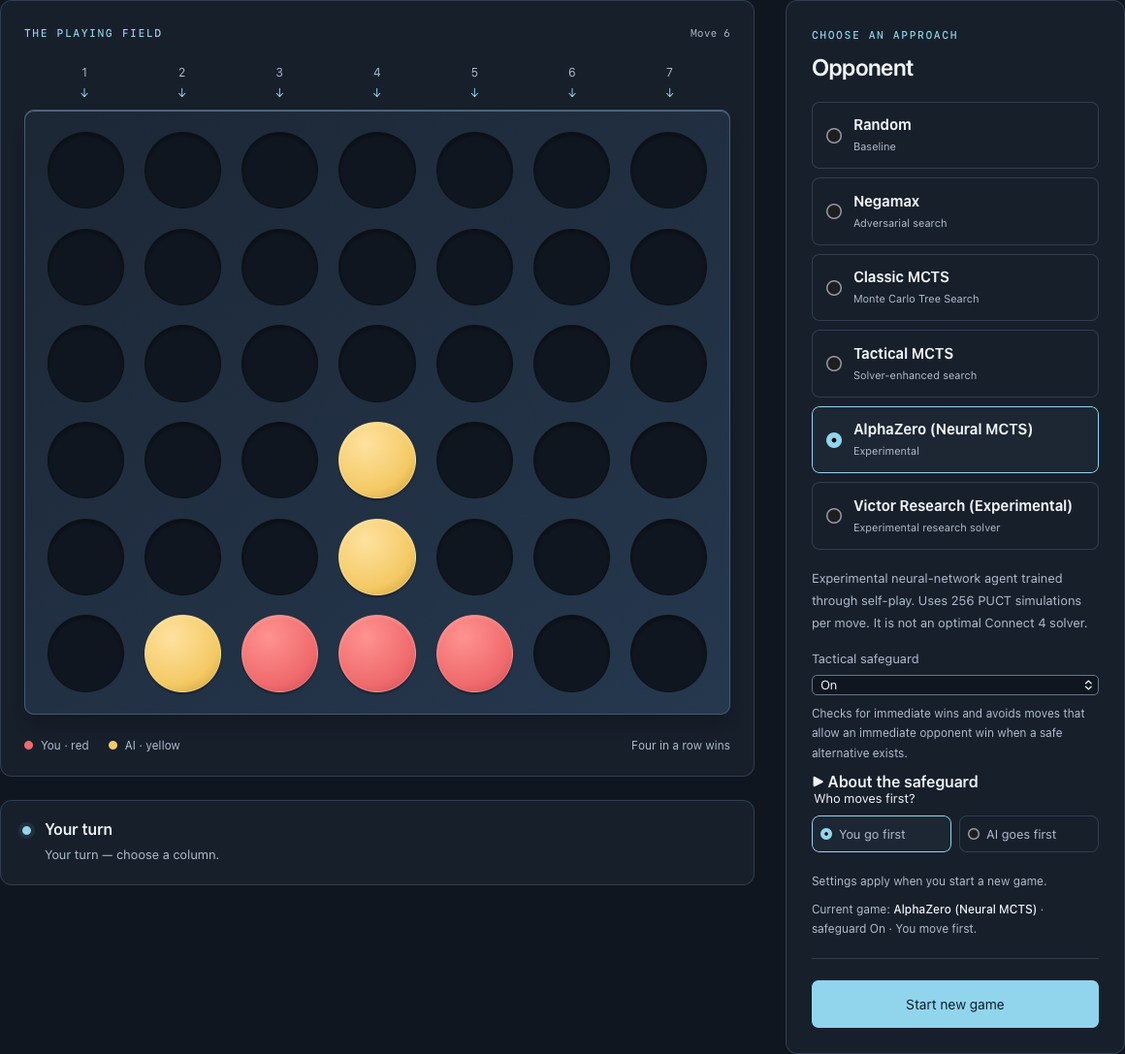
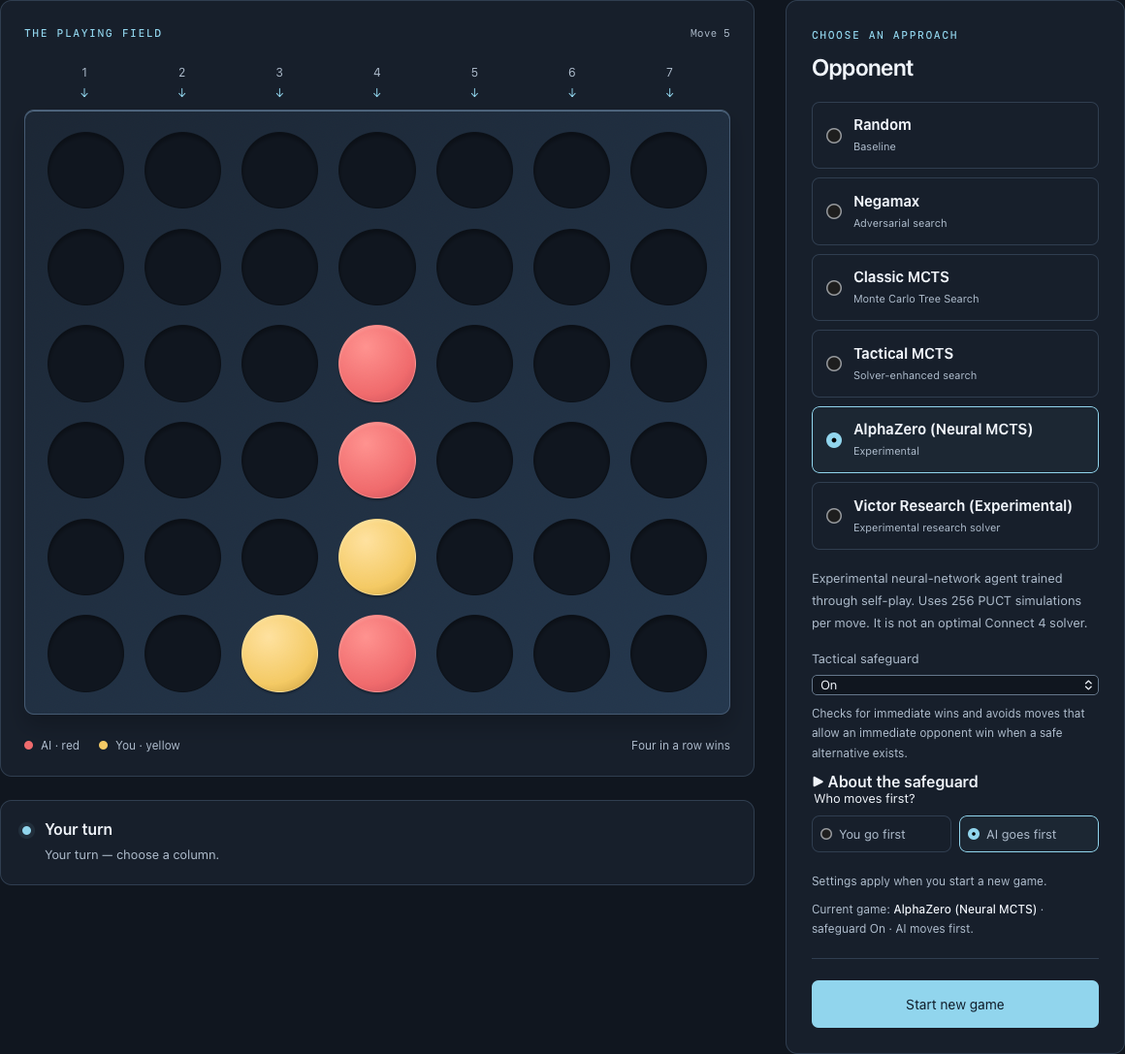
Address independent review findings
- Keep untouched default fields on the last settled AlphaZero
  availability during a recheck; menus and creation still fail closed,
  and pending AlphaZero slots are labelled as checking availability.
- Gate the homepage hero's neural-agent mention on discovery and say the
  +1.30 pp safeguard effect is pooled across two trained networks.
- Install mock backends before page load in two screenshot specs and
  scope the Season workload locator now that Victor can join defaults.
- Recapture the Play screenshot from a neutral position; tighten README
  study attribution, image-publishing and Compose wording.

diff --git a/ui/src/pages/SeasonLab.jsx b/ui/src/pages/SeasonLab.jsx
@@ -1,4 +1,4 @@
-import { hasAlphaZero, ALPHAZERO_CAVEAT } from '../connect4/alphazero.js';
+import { ALPHAZERO, hasAlphaZero, ALPHAZERO_CAVEAT } from '../connect4/alphazero.js';
 import { useAlphaZero } from '../connect4/useAlphaZero.js';
 import { researchAgentEnabled, researchAgent, VICTOR_RESEARCH, hasResearch, RESEARCH_DISABLED, RESEARCH_CAVEAT } from '../connect4/researchAgent.js';
 import { useMemo, useState } from 'react';
@@ -28,8 +28,9 @@ export default function SeasonLabPage({ http = seasonHttp, storage }) {
   const presets = entrantPresets(available);
   const state = useSeason(http, storage), { season: s, controller: c } = state;
   const [size, setSize] = useState(8), [games, setGames] = useState(2), [customField, setField] = useState(null), [seed, setSeed] = useState(() => String(randomSeed()));
-  // Until edited, the field follows availability, so late AlphaZero discovery joins it without replacing choices.
-  const field = customField ?? recommendedField(size, available);
+  // Until edited, the field follows settled availability: late AlphaZero discovery joins it without
+  // replacing choices, and a recheck does not reshuffle it. Menus and creation still fail closed.
+  const field = customField ?? recommendedField(size, { ...available, alphaZero: alphaZero.settled });
   const [setup, setSetup] = useState(false), [selected, setSelected] = useState(null), [setupError, setSetupError] = useState(''), [epoch, setEpoch] = useState(0);
   const analytics = useMemo(() => s ? seasonAnalytics(s) : null, [s?.completedGames, s?.entrants, s?.seasonSeed]);
   const shown = s && (s.schedule.find(f => f.fixtureId === selected) ?? currentFixture(s) ?? s.schedule.at(-1));
@@ -65,7 +66,7 @@ export default function SeasonLabPage({ http = seasonHttp, storage }) {
       <p id="season-seed-help" className="analysis-helper">Whole number 0–4294967295. The same field, slot order, seed and season length reproduce the schedule, colors and game seeds.</p>
       <p className="season-workload" role="status">{size * (size - 1) / 2} pairings × {games} = <strong>{totalGames(size, games)} scheduled games,</strong> played one at a time on the shared game server. Runtime depends on the entrants as well as the game count: Random and shallow Negamax reply almost instantly, while deeper Negamax, larger MCTS budgets and Victor Research spend more time per move. The default field avoids the slowest settings; a full season can still take several minutes or longer.</p>
       <div className="field-heading"><h3>Entrants</h3><button type="button" onClick={() => setField(null)}>Reset default field</button></div>
-      <div className="entrant-field">{field.map((config, i) => <div className="entrant-row" key={i}><label htmlFor={`season-entrant-${i + 1}`}>#{i + 1}</label><select id={`season-entrant-${i + 1}`} aria-label={`Entrant ${i + 1} configuration`} value={presets.findIndex(p => JSON.stringify(p) === JSON.stringify(config))} onChange={e => setField(field.map((p, j) => j === i ? { ...presets[Number(e.target.value)] } : p))}>{presets.findIndex(p => JSON.stringify(p) === JSON.stringify(config)) === -1 && <option value={-1} disabled>{config.type === VICTOR_RESEARCH ? `${researchAgent.name} · unavailable` : `${competitorLabel(config)} · saved setting`}</option>}{presets.map((p, j) => <option value={j} key={j}>{competitorLabel(p)}</option>)}</select></div>)}</div>
+      <div className="entrant-field">{field.map((config, i) => <div className="entrant-row" key={i}><label htmlFor={`season-entrant-${i + 1}`}>#{i + 1}</label><select id={`season-entrant-${i + 1}`} aria-label={`Entrant ${i + 1} configuration`} value={presets.findIndex(p => JSON.stringify(p) === JSON.stringify(config))} onChange={e => setField(field.map((p, j) => j === i ? { ...presets[Number(e.target.value)] } : p))}>{presets.findIndex(p => JSON.stringify(p) === JSON.stringify(config)) === -1 && <option value={-1} disabled>{config.type === VICTOR_RESEARCH ? `${researchAgent.name} · unavailable` : config.type === ALPHAZERO && alphaZero.checking ? `${competitorLabel(config)} · checking availability` : `${competitorLabel(config)} · saved setting`}</option>}{presets.map((p, j) => <option value={j} key={j}>{competitorLabel(p)}</option>)}</select></div>)}</div>
       <div className="setup-submit"><button id="season-create" className="action-link action-link--primary" disabled={state.busy}>Create season</button>{s && <button type="button" onClick={() => setSetup(false)}>Cancel new season</button>}</div>
     </form> : <>
       <section className="tournament-summary" aria-label="Season summary"><div><span className="eyebrow">Exact Red / Yellow balance</span><h2>{s.fieldSize} entrants <span>·</span> {s.gamesPerPairing} games per pairing</h2><p>Seed {s.seasonSeed} · {s.currentGameIndex} of {s.schedule.length} games complete · {s.schedule.at(-1).round} rounds</p></div><button disabled={state.busy} onClick={() => { c.pause(); setSize(s.fieldSize); setGames(s.gamesPerPairing); setField(s.entrants.map(e => ({ ...e.config }))); setSeed(String(randomSeed())); setSetup(true); }}>New season</button></section>

diff --git a/ui/e2e/season.spec.js b/ui/e2e/season.spec.js
@@ -7,8 +7,8 @@ test('homepage/navigation, representative 8-player setup, strict seed, workload,
   const mock = await mockSeason(page); await page.goto('/'); await page.getByRole('link', { name: 'Open Season Lab' }).click();
   await expect(page.getByRole('heading', { level: 1 })).toHaveText('Season Lab'); await expect(page.locator('.entrant-row')).toHaveCount(8); await expect(page.locator('#season-entrant-1 option')).toHaveCount(16 + Number((process.env.VICTOR_LABS_UI ?? process.env.VICTOR_RELEASE_UI) === 'true'));
   await expect(page.locator('#season-entrant-1')).not.toContainText('Human');
-  for (const [games, count] of [[2, 56], [4, 112], [8, 224]]) { await page.locator('#season-games').selectOption(String(games)); await expect(page.locator('.season-workload')).toContainText(`${count} scheduled games`); }
-  await page.locator('#season-size').selectOption('12'); await expect(page.locator('.season-workload')).toContainText('528 scheduled games');
+  for (const [games, count] of [[2, 56], [4, 112], [8, 224]]) { await page.locator('#season-games').selectOption(String(games)); await expect(page.locator('.season-workload[role="status"]')).toContainText(`${count} scheduled games`); }
+  await page.locator('#season-size').selectOption('12'); await expect(page.locator('.season-workload[role="status"]')).toContainText('528 scheduled games');
   for (const size of [4, 6, 8, 10, 12]) { await page.locator('#season-size').selectOption(String(size)); await expect(page.locator('.entrant-row')).toHaveCount(size); }
   await page.locator('#season-seed').fill('4294967296'); await page.locator('#season-create').click(); await expect(page.getByRole('alert')).toContainText('whole number');
   await page.locator('#season-size').selectOption('8'); await page.locator('#season-games').selectOption('4'); await page.locator('#season-seed').fill('1234'); await page.locator('#season-create').click();
@@ -62,8 +62,10 @@ test('route departure while a move is in flight keeps one mutation owner on retu
 test('polished seeded season screenshots', async ({ page }) => {
   const folder = resolve('playwright-report/phase5d'); await mkdir(folder, { recursive: true });
   const capture = async (name, locator) => { await page.evaluate(() => { document.activeElement?.blur(); window.scrollTo(0, 0); }); await (locator ?? page).screenshot({ path: `${folder}/${name}.png`, fullPage: locator ? undefined : true, style: '.skip-link { visibility: hidden; }' }); };
+  // Mock first: discovery runs on load, and an untouched default field follows it.
+  const mock = await mockSeason(page);
   await page.setViewportSize({ width: 1440, height: 1040 }); await page.goto('/connect4/season'); await page.locator('#season-games').selectOption('4'); await page.locator('#season-seed').fill('1234'); await capture('01-setup-8x4');
-  const mock = await mockSeason(page); await page.locator('#season-create').click(); await page.locator('#season-watch').click(); await expect(page.locator('#match-next')).toBeEnabled();
+  await page.locator('#season-create').click(); await page.locator('#season-watch').click(); await expect(page.locator('#match-next')).toBeEnabled();
   for (let i = 1; i <= 6; i++) { await page.locator('#match-next').click(); await expect(page.locator('.board-revision')).toHaveText(`Move ${i}`); await expect(page.locator('#match-next')).toBeEnabled(); }
   await capture('02-active-schedule', page.locator('.season-schedule')); await capture('03-live-viewer', page.locator('.season-viewer'));
   await seedSeason(page, seasonFixture(8, 4, 48)); await page.reload(); await capture('04-standings', page.locator('.season-standings'));

diff --git a/ui/src/pages/TournamentLab.jsx b/ui/src/pages/TournamentLab.jsx
@@ -1,4 +1,4 @@
-import { hasAlphaZero, ALPHAZERO_CAVEAT } from '../connect4/alphazero.js';
+import { ALPHAZERO, hasAlphaZero, ALPHAZERO_CAVEAT } from '../connect4/alphazero.js';
 import { useAlphaZero } from '../connect4/useAlphaZero.js';
 import { researchAgentEnabled, researchAgent, VICTOR_RESEARCH, hasResearch, RESEARCH_DISABLED, RESEARCH_CAVEAT } from '../connect4/researchAgent.js';
 import { useState } from 'react';
@@ -23,8 +23,9 @@ export default function TournamentLabPage({ http = tournamentHttp, storage }) {
   const presets = entrantPresets({ ...available, human: true });
   const state = useTournament(http, storage), { tournament: t, controller: c } = state;
   const [size, setSize] = useState(8), [customField, setField] = useState(null), [seed, setSeed] = useState(() => String(randomSeed()));
-  // Until edited, the field follows availability, so late AlphaZero discovery joins it without replacing choices.
-  const field = customField ?? recommendedField(size, available);
+  // Until edited, the field follows settled availability: late AlphaZero discovery joins it without
+  // replacing choices, and a recheck does not reshuffle it. Menus and creation still fail closed.
+  const field = customField ?? recommendedField(size, { ...available, alphaZero: alphaZero.settled });
   const [setup, setSetup] = useState(false), [selected, setSelected] = useState(null), [setupError, setSetupError] = useState(''), [playbackEpoch, setPlaybackEpoch] = useState(0);
   const parsedSeed = /^\d+$/.test(seed) ? Number(seed) : NaN;
   const shown = t && (findMatchup(t, selected) ?? findMatchup(t, t.active?.matchupId) ?? nextMatchup(t) ?? t.rounds.at(-1)[0]);
@@ -66,7 +67,7 @@ export default function TournamentLabPage({ http = tournamentHttp, storage }) {
       <div className="entrant-field">{field.map((config, i) => <div className="entrant-row" key={i}><label htmlFor={`entrant-${i + 1}`}>#{i + 1}</label>
         <select id={`entrant-${i + 1}`} aria-label={`Entrant ${i + 1} configuration`} value={presets.findIndex(p => JSON.stringify(p) === JSON.stringify(config))}
           onChange={e => setField(field.map((p, j) => j === i ? { ...presets[Number(e.target.value)] } : p))}>
-          {presets.findIndex(p => JSON.stringify(p) === JSON.stringify(config)) === -1 && <option value={-1} disabled>{config.type === VICTOR_RESEARCH ? `${researchAgent.name} · unavailable` : `${competitorLabel(config)} · saved setting`}</option>}{presets.map((p, j) => <option key={j} value={j} disabled={p.type === 'human' && config.type !== 'human' && field.some(c => c.type === 'human')}>{p.type === 'human' ? 'You · Human' : competitorLabel(p)}</option>)}
+          {presets.findIndex(p => JSON.stringify(p) === JSON.stringify(config)) === -1 && <option value={-1} disabled>{config.type === VICTOR_RESEARCH ? `${researchAgent.name} · unavailable` : config.type === ALPHAZERO && alphaZero.checking ? `${competitorLabel(config)} · checking availability` : `${competitorLabel(config)} · saved setting`}</option>}{presets.map((p, j) => <option key={j} value={j} disabled={p.type === 'human' && config.type !== 'human' && field.some(c => c.type === 'human')}>{p.type === 'human' ? 'You · Human' : competitorLabel(p)}</option>)}
         </select></div>)}</div>
       <div className="setup-submit"><button id="tournament-create" className="action-link action-link--primary" disabled={state.busy}>Create tournament</button>{t && <button type="button" onClick={() => setSetup(false)}>Cancel new tournament</button>}</div>
     </form> : <>

diff --git a/ui/tests/portfolioPolish.test.js b/ui/tests/portfolioPolish.test.js
@@ -137,7 +137,7 @@ test('I/J/K: every Tournament default is valid, selectable, Human-free, ordered 
     const ranks = field.map(c => AI_AGENT_ORDER.indexOf(c.type));
     assert.deepEqual(ranks, [...ranks].sort((a, b) => a - b));
     // Large brackets repeat configurations evenly rather than piling onto one.
-    const counts = Object.values(Object.groupBy(field, c => JSON.stringify(c))).map(group => group.length);
+    const counts = [...field.reduce((m, c) => m.set(JSON.stringify(c), (m.get(JSON.stringify(c)) ?? 0) + 1), new Map()).values()];
     assert.ok(Math.max(...counts) - Math.min(...counts) <= Math.ceil(size / 9));
     assert.ok(tournament.createTournament(field, 1234, 'defaults', victor, alphaZero ? provenance : undefined));
   }
@@ -290,4 +290,35 @@ test('V/W: homepage shows AlphaZero before Victor and only calls it playable whe
   const checking = render(React.createElement(Home, { http: client('deferred').http }));
   assert.equal([...checking.doc.querySelectorAll('#agents .badge')].at(-1).textContent, 'Checking availability…');
   checking.cleanup();
+});
+
+test('M: an availability recheck keeps an untouched field stable; a confirmed loss removes AlphaZero', async () => {
+  const responses = [];
+  const http = { get: () => new Promise((resolve, reject) => responses.push({ resolve, reject })), post: async () => { throw new Error('No game may start.'); } };
+  const ui = render(React.createElement(TournamentLabPage, { http, storage: memoryStorage() }), 'http://localhost/connect4/tournament');
+  responses.shift().resolve({ data: status }); await flush();
+  const withAlphaZero = recommendedField(8, { alphaZero: true }).map(competitorLabel);
+  assert.deepEqual(fieldLabels(ui, 'entrant', 8), withAlphaZero);
+  const refresh = () => ui.click([...ui.doc.querySelectorAll('button')].find(b => b.textContent === 'Refresh agent availability'));
+
+  refresh(); await flush();
+  // Checking: menus fail closed, but the untouched field neither reshuffles nor drops AlphaZero.
+  assert.equal(ui.options('entrant-2').some(o => o.text === 'AlphaZero (Experimental) · safeguard Off'), false);
+  assert.deepEqual(fieldLabels(ui, 'entrant', 8), withAlphaZero.map(l => l.startsWith('AlphaZero') ? `${l} · checking availability` : l));
+  responses.shift().resolve({ data: status }); await flush();
+  assert.deepEqual(fieldLabels(ui, 'entrant', 8), withAlphaZero);
+
+  refresh(); await flush();
+  responses.shift().reject(Object.assign(new Error('absent'), { response: { status: 404 } })); await flush();
+  assert.deepEqual(fieldLabels(ui, 'entrant', 8), recommendedField(8).map(competitorLabel));
+  ui.cleanup();
+});
+
+test('V/W: the hero names the neural agent only when the backend reports it available', async () => {
+  for (const [discovery, neural] of [['available', true], ['absent', false]]) {
+    const ui = render(React.createElement(Home, { http: client(discovery).http }));
+    await flush();
+    assert.equal(ui.doc.querySelector('.hero-description').textContent.includes('neural network'), neural);
+    ui.cleanup();
+  }
 });

diff --git a/ui/src/connect4/alphazero.js b/ui/src/connect4/alphazero.js
@@ -46,20 +46,21 @@ export function requireSameAlphaZero(expected, actual) {
 
 // Shared discovery per HTTP client. No polling; mount, focus (60s cache), explicit
 // refresh, and AlphaZero starts. A newer refresh supersedes older responses.
+// `settled` keeps the last confirmed availability through a recheck, for display only.
 const discoveries = new WeakMap();
 export function alphaZeroDiscovery(http) {
   if (discoveries.has(http)) return discoveries.get(http);
-  let state = { available: false, provenance: null, reason: 'Checking AlphaZero availability…', checkedAt: 0 }, sequence = 0, pending = null;
+  let state = { available: false, checking: true, settled: false, provenance: null, reason: 'Checking AlphaZero availability…', checkedAt: 0 }, sequence = 0, pending = null;
   const listeners = new Set();
   const publish = next => { state = next; for (const fn of listeners) fn(); };
   const store = { snapshot: () => state, subscribe: fn => { listeners.add(fn); return () => listeners.delete(fn); },
-    invalidate: () => { sequence++; pending = null; publish({ available: false, provenance: null, reason: 'AlphaZero availability must be checked again.', checkedAt: 0 }); },
+    invalidate: () => { sequence++; pending = null; publish({ available: false, checking: false, settled: false, provenance: null, reason: 'AlphaZero availability must be checked again.', checkedAt: 0 }); },
     async refresh(force = false) {
       if (!force && pending) return pending;
       if (!force && Date.now() - state.checkedAt < 60000) return state;
       const id = ++sequence;
       // Fail closed while rechecking, retaining no selectable stale model.
-      publish({ ...state, available: false, reason: 'Checking AlphaZero availability…' });
+      publish({ ...state, available: false, checking: true, reason: 'Checking AlphaZero availability…' });
       const task = (async () => {
         let next;
         try {
@@ -67,7 +68,7 @@ export function alphaZeroDiscovery(http) {
           const provenance = validateAlphaZeroStatus(data);
           next = { available: Boolean(provenance), provenance, reason: provenance ? '' : data.enabled ? 'AlphaZero is unavailable on this backend.' : 'AlphaZero is disabled on this backend.' };
         } catch (error) { next = { available: false, provenance: null, reason: error.response?.status === 404 ? 'AlphaZero is not supported by this backend.' : 'AlphaZero availability could not be confirmed.' }; }
-        if (id === sequence) { publish({ ...next, checkedAt: Date.now() }); pending = null; }
+        if (id === sequence) { publish({ ...next, checking: false, settled: next.available, checkedAt: Date.now() }); pending = null; }
         return state;
       })();
       pending = task; return task;

diff --git a/ui/src/pages/Home.jsx b/ui/src/pages/Home.jsx
@@ -36,7 +36,7 @@ const alphaZeroSteps = [
   ['Self-play', 'The agent plays complete games against itself. Each position is saved with the moves its search preferred and the eventual result.'],
   ['Learning', 'A convolutional network with 325,896 parameters, trained in PyTorch, learns a policy (which columns look promising) and a value (who is likely to win).'],
   ['Search', 'Each move runs 256 PUCT simulations: the network’s predictions steer Monte Carlo Tree Search toward promising lines instead of random rollouts.'],
-  ['Optional safeguard', 'A conventional one-ply check after search takes an immediate win and avoids handing one over. Measured effect: +1.30 points of match score, below the +2‑point threshold declared before the study.'],
+  ['Optional safeguard', 'A conventional one-ply check after search takes an immediate win and avoids handing one over. Measured effect across two trained networks: +1.30 points of match score, below the +2‑point threshold declared before the study.'],
 ];
 
 function ApproachGlyph({ type }) {
@@ -62,7 +62,7 @@ function ApproachGlyph({ type }) {
 
 function alphaZeroBadge(alphaZero) {
   if (alphaZero.available) return <Badge>Playable · Experimental</Badge>;
-  return <Badge variant="research">{alphaZero.reason.startsWith('Checking') ? 'Checking availability…' : 'Not available on this server'}</Badge>;
+  return <Badge variant="research">{alphaZero.checking ? 'Checking availability…' : 'Not available on this server'}</Badge>;
 }
 
 export default function Home({ http = homeHttp }) {
@@ -78,7 +78,7 @@ export default function Home({ http = homeHttp }) {
           <p className="eyebrow"><span className="accent-dash" />Play · compare · understand</p>
           <h1 id="hero-title">Board Game<br /><span>AI Lab</span><span className="title-period">.</span></h1>
           <p className="hero-statement">Explore how game-playing AI chooses moves.</p>
-          <p className="hero-description">Play Connect 4 against classical search, Monte Carlo and self-play neural agents. Compare how they choose moves and inspect grounded analysis of the board.</p>
+          <p className="hero-description">Play Connect 4 against classical search and Monte Carlo agents{alphaZero.available ? ', and a neural network trained through self-play' : ''}. Compare how they choose moves and inspect grounded analysis of the board.</p>
           <div className="action-row"><ActionLink to="/connect4">Play Connect 4</ActionLink><ActionLink to="/#agents" variant="secondary">Explore the agents</ActionLink></div>
           <p className="hero-note"><span className="piece-dot piece-dot--red" /><span className="piece-dot piece-dot--yellow" />Choose whether you or the AI moves first.</p>
         </div>

diff --git a/ui/e2e/tournament.spec.js b/ui/e2e/tournament.spec.js
@@ -89,9 +89,11 @@ test('invalid saved topology rejects whole record and allows new tournament', as
 });
 test('representative polished Tournament Lab screenshots', async ({ page }) => {
   const folder = resolve('playwright-report/phase5b'); await mkdir(folder, { recursive: true });
+  // Mock first: discovery runs on load, and an untouched default field follows it.
+  const s = await mockTournament(page);
   await page.setViewportSize({ width: 1440, height: 1040 }); await page.goto('/connect4/tournament'); await page.locator('#tournament-seed').fill('1234');
   await page.evaluate(() => { document.activeElement?.blur(); window.scrollTo(0, 0); }); await page.screenshot({ style: '.skip-link { visibility: hidden; }', path: `${folder}/01-desktop-setup.png`, fullPage: true });
-  const s = await mockTournament(page); await page.locator('#tournament-create').click(); await start(page);
+  await page.locator('#tournament-create').click(); await start(page);
   for (let i = 1; i <= 6; i++) { await page.locator('#match-next').click(); await expect(page.locator('.board-revision')).toHaveText(`Move ${i}`); await expect(page.locator('#match-next')).toBeEnabled(); }
   await page.evaluate(() => { document.activeElement?.blur(); window.scrollTo(0, 0); }); await page.screenshot({ style: '.skip-link { visibility: hidden; }', path: `${folder}/02-desktop-active-bracket.png`, fullPage: true });
   await page.locator('.tournament-viewer').screenshot({ style: '.skip-link { visibility: hidden; }', path: `${folder}/03-desktop-live-viewer.png` });

diff --git a/README.md b/README.md
@@ -43,7 +43,7 @@ None of the agents plays perfectly. AlphaZero and Victor Research are research a
 - **React game and evaluation workflows.** Play, Match, Tournament and Season Labs share one competitor model. AlphaZero appears only when the backend reports it available; Victor Research sits behind matching frontend and server flags. Competitions survive reloads through validated local persistence.
 - **Reproducible, verifiable evaluation.** Seeds determine brackets, schedules, colors and game seeds. Season exports carry versioned provenance and a SHA-256 evidence digest, and a standalone verifier legally replays every game.
 - **Grounded LLM explanations.** The engine computes tactical facts deterministically. The LLM only selects among verified fact IDs and curated strategy references, and it never chooses moves.
-- **ARM64 deployment and CI.** GitHub Actions runs backend and frontend tests, builds and smoke-tests native ARM64 Docker images, and runs AlphaZero inference checks. Images are published, but deployment is a manual, documented step.
+- **ARM64 deployment and CI.** GitHub Actions runs backend and frontend tests, builds and smoke-tests native ARM64 Docker images, and runs AlphaZero inference checks on a native ARM64 runner. Commit-pinned API images are published to GHCR; deployment remains a manual, documented step.
 
 ## Architecture
 
@@ -64,10 +64,11 @@ The browser owns competition scheduling, replay and analytics; the API owns game
 
 ```sh
 node ui/scripts/verify-evaluation-export.mjs benchmarks/connect4/results/canonical-season-v1/evaluation.json
-# Verification PASS · COMPLETE: 112/112 games
+# Verification PASS
+# COMPLETE: 112/112 games
 ```
 
-**AlphaZero research results.** In controlled studies from varied openings, the public model scored about 54% against Negamax depth 3 and about 36% against Negamax depth 5. It is a working self-play agent, not a strong or perfect player. In a [confirmation study](https://github.com/andrewcukierwar/board-game-ai-lab/blob/phase4d4j-b-tactical-guard-confirmation/docs/phase4d4j-b-alphazero-tactical-guard-confirmation.md), the optional safeguard improved match score by +1.30 percentage points (95% interval +0.52 to +2.34), pooled across the two trained CNNs studied. That is a real but small effect, below the +2-point practical threshold declared in advance.
+**AlphaZero research results.** In a controlled study from varied openings (Phase 4D.4J-B, safeguard Off), the public model scored about 54% against Negamax depth 3 and about 36% against Negamax depth 5. It is a working self-play agent, not a strong or perfect player. In a [confirmation study](https://github.com/andrewcukierwar/board-game-ai-lab/blob/phase4d4j-b-tactical-guard-confirmation/docs/phase4d4j-b-alphazero-tactical-guard-confirmation.md), the optional safeguard improved match score by +1.30 percentage points (95% interval +0.52 to +2.34), pooled across the two trained CNNs studied. That is a real but small effect, below the +2-point practical threshold declared in advance.
 
 **Tactical MCTS research results.** On 256 held-out openings, the solver-enhanced variant scored 74.2% against Classic MCTS at equal simulations and 70.8% at equal search time. This is a head-to-head research comparison, not a measurement of the current public presets.
 
@@ -89,7 +90,7 @@ With Docker running, from the repository root:
 docker compose up --build
 ```
 
-Open http://localhost:3000. Gameplay needs no API keys. AlphaZero is opt-in: it requires the `ALPHAZERO_RUNTIME=true` image build and `ALPHAZERO_ENABLED=true` at runtime ([runtime dependencies](docs/alphazero-runtime-dependencies.md)).
+Open http://localhost:3000. Gameplay needs no API keys. The default Compose setup is torch-free, so AlphaZero is hidden; enabling it needs an API image built with `ALPHAZERO_RUNTIME=true` and `ALPHAZERO_ENABLED=true` at runtime, as described in the [runtime dependencies](docs/alphazero-runtime-dependencies.md).
 
 For development, with Python 3.11 and Node 22.12+:
 
@@ -118,7 +119,7 @@ Run tests with `EXPLANATIONS_ENABLED=false python -m pytest tests -q` and `cd ui
 <details>
 <summary>More screenshots</summary>
 
-![Playing against AlphaZero with the tactical safeguard on](docs/assets/connect4-play.png)
+![Playing against AlphaZero, which moved first, with the tactical safeguard on](docs/assets/connect4-play.png)
 
 ![Match Lab reviewing AlphaZero against Tactical MCTS](docs/assets/match-lab-replay.png)
 

diff --git a/docs/assets/README.md b/docs/assets/README.md
@@ -1,11 +1,11 @@
 # Application screenshots
 
-Real captures of the application UI, with no generated imagery, retouching, or invented visual elements. They were taken on October 14, 2026 from the `polish/portfolio-home-readme-default-fields` frontend (Vite dev server, WebKit, 1440 px viewport). The frontend used an isolated local staging API (`127.0.0.1`, never the public service) with `ALPHAZERO_ENABLED=true`, `VICTOR_RESEARCH_ENABLED=true` and explanations disabled. AlphaZero availability and every AI move shown came from that real backend; no response was mocked.
+Real captures of the application UI, with no generated imagery, retouching, or invented visual elements. They were taken on October 14, 2026 from this release's frontend (Vite dev server, WebKit, 1440 px viewport). The frontend used an isolated local staging API (`127.0.0.1`, never the public service) with `ALPHAZERO_ENABLED=true`, `VICTOR_RESEARCH_ENABLED=true` and explanations disabled. AlphaZero availability and every AI move shown came from that real backend; no response was mocked.
 
 | Image | Context |
 | --- | --- |
 | [home.png](home.png) | Homepage first viewport. |
-| [connect4-play.png](connect4-play.png) | Play against AlphaZero with the tactical safeguard On; the human moved first in columns 4, 3 and 5, and AlphaZero replied. Before requesting analysis. |
+| [connect4-play.png](connect4-play.png) | Play against AlphaZero (Red, moving first) with the tactical safeguard On; the human replied in columns 4 and 3. Neither side has an immediate win. Before requesting analysis. |
 | [match-lab-replay.png](match-lab-replay.png) | Match Lab: AlphaZero (safeguard On, Red) against Tactical MCTS at 400 maximum simulations, stepped nine moves and reviewing move 7. |
 | [tournament-setup.png](tournament-setup.png) | Tournament setup showing the recommended eight-entrant default field with both optional agents available. |
 
